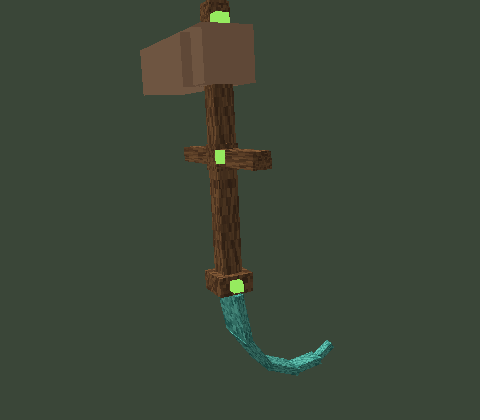
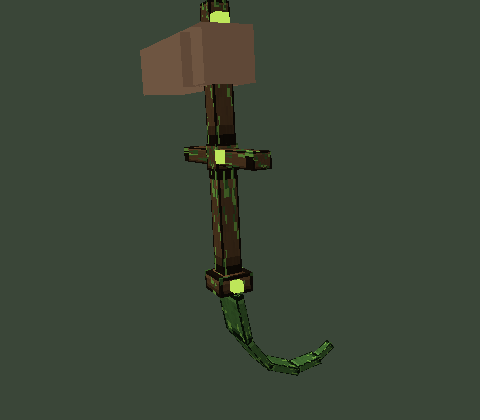
DATA: swap scythe preview page to the moss-banded variants (token #4, CoffiebagSupreme)

Changed region(s): [[0.375, 0.1857, 0.7188, 0.8976], [0.4062, 0.0, 0.5, 0.0619]]

diff --git a/site/preview/coffiebagsupreme_scythe/index.html b/site/preview/coffiebagsupreme_scythe/index.html
@@ -50,35 +50,36 @@
   <main class="preview-wrap">
     <p><a href="../">&larr; Back</a></p>
     <h1 class="mc-text">CoffiebagSupreme's scythe &mdash; pick one</h1>
-    <p class="lede">Three takes on the druid field scythe, all built around the jade-blade /
-      vine-handle look you sent. Tell the hub which one in-game (<code class="kbd">/shenron</code>
-      or chat it to Claude) and it'll apply with <code class="kbd">/cosmetic done 4</code>.</p>
+    <p class="lede">Three takes on a tall moss-covered field scythe, in the dramatic-staff style
+      you picked, retextured green with a dark outline and moss patches instead of jade. Tell the
+      hub which one in-game (<code class="kbd">/shenron</code> or chat it to Claude) and it'll
+      apply with <code class="kbd">/cosmetic done 4</code>.</p>
     <div class="preview-grid">
       <article class="variant-card gui-panel">
-        <div class="tooltip"><span class="tooltip__title mc-text">Jade Hook</span></div>
-        <p class="variant-desc">Bright teal-jade glass blade on a dark bark handle, lime-glow gem
-          studs at the pommel, grip and coil. Closest match to the reference.</p>
+        <div class="tooltip"><span class="tooltip__title mc-text">Mossbound Hook</span></div>
+        <p class="variant-desc">Deep moss-green blade and bark handle, both thick with clumped
+          moss patches, lichen-glow gem studs at the pommel, grip and coil.</p>
         <div class="variant-shots">
-          <figure><img src="jade_scythe_1_hotbar.png" alt="Jade Hook hotbar/inventory icon render"><figcaption>Icon</figcaption></figure>
-          <figure><img src="jade_scythe_1_held.png" alt="Jade Hook held in-hand render"><figcaption>Held</figcaption></figure>
+          <figure><img src="jade_scythe_1_hotbar.png" alt="Mossbound Hook hotbar/inventory icon render"><figcaption>Icon</figcaption></figure>
+          <figure><img src="jade_scythe_1_held.png" alt="Mossbound Hook held in-hand render"><figcaption>Held</figcaption></figure>
         </div>
       </article>
       <article class="variant-card gui-panel">
-        <div class="tooltip"><span class="tooltip__title mc-text">Verdant Coil</span></div>
-        <p class="variant-desc">Deep emerald blade against a pale birch handle, with soft jade gem
-          studs for a quieter, more woodland look.</p>
+        <div class="tooltip"><span class="tooltip__title mc-text">Verdant Growth</span></div>
+        <p class="variant-desc">Living emerald blade against a pale birch handle, overgrown with
+          bright moss and soft lichen gem studs.</p>
         <div class="variant-shots">
-          <figure><img src="jade_scythe_2_hotbar.png" alt="Verdant Coil hotbar/inventory icon render"><figcaption>Icon</figcaption></figure>
-          <figure><img src="jade_scythe_2_held.png" alt="Verdant Coil held in-hand render"><figcaption>Held</figcaption></figure>
+          <figure><img src="jade_scythe_2_hotbar.png" alt="Verdant Growth hotbar/inventory icon render"><figcaption>Icon</figcaption></figure>
+          <figure><img src="jade_scythe_2_held.png" alt="Verdant Growth held in-hand render"><figcaption>Held</figcaption></figure>
         </div>
       </article>
       <article class="variant-card gui-panel">
-        <div class="tooltip"><span class="tooltip__title mc-text">Mossbrand Aged</span></div>
-        <p class="variant-desc">Weathered verdigris-copper blade on dark oak, with dim moss-green
-          gem studs for a worn, ancient-relic feel.</p>
+        <div class="tooltip"><span class="tooltip__title mc-text">Ancient Overgrowth</span></div>
+        <p class="variant-desc">Near-black rotted wood and a dark moss-crusted blade, swallowed
+          almost whole by thick moss, for a worn ancient-relic feel.</p>
         <div class="variant-shots">
-          <figure><img src="jade_scythe_3_hotbar.png" alt="Mossbrand Aged hotbar/inventory icon render"><figcaption>Icon</figcaption></figure>
-          <figure><img src="jade_scythe_3_held.png" alt="Mossbrand Aged held in-hand render"><figcaption>Held</figcaption></figure>
+          <figure><img src="jade_scythe_3_hotbar.png" alt="Ancient Overgrowth hotbar/inventory icon render"><figcaption>Icon</figcaption></figure>
+          <figure><img src="jade_scythe_3_held.png" alt="Ancient Overgrowth held in-hand render"><figcaption>Held</figcaption></figure>
         </div>
       </article>
     </div>
